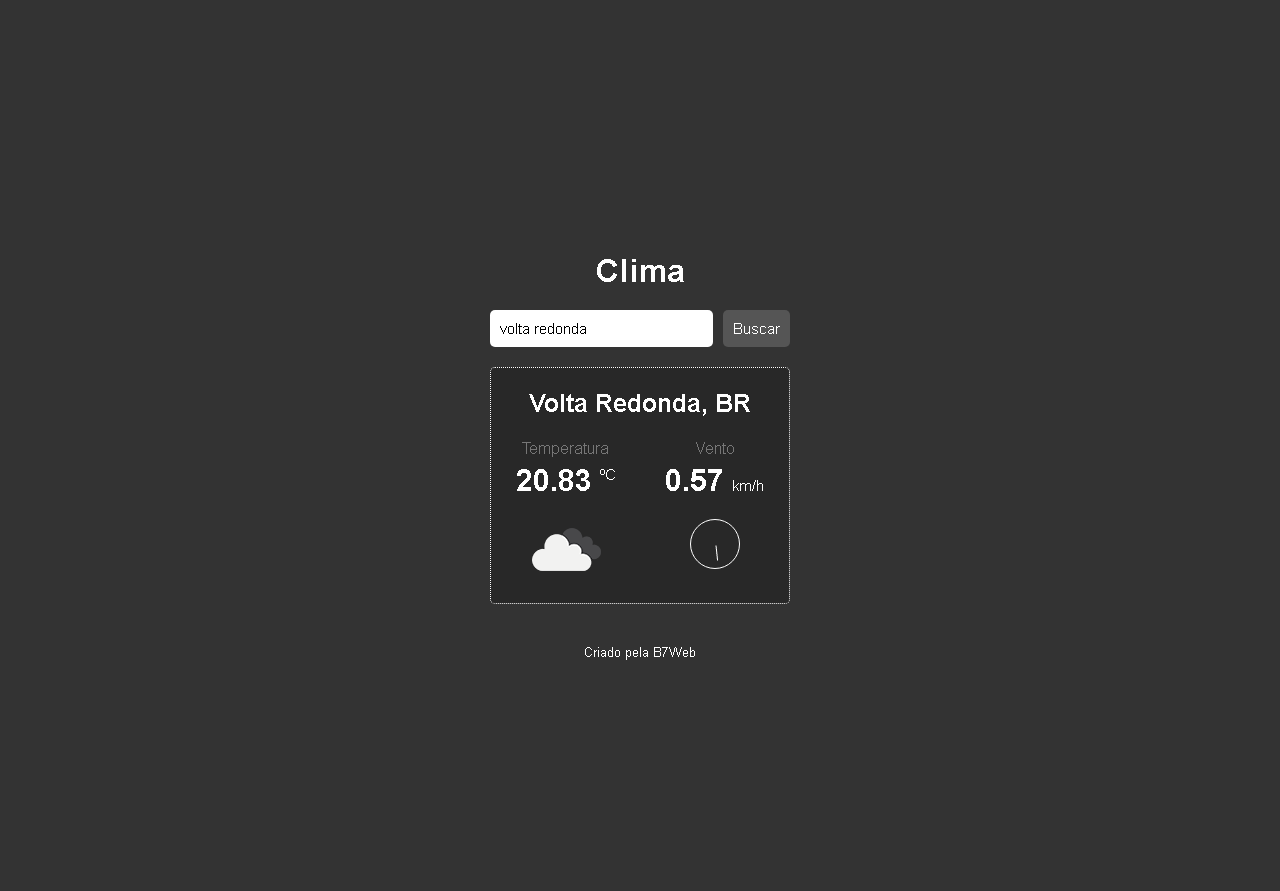
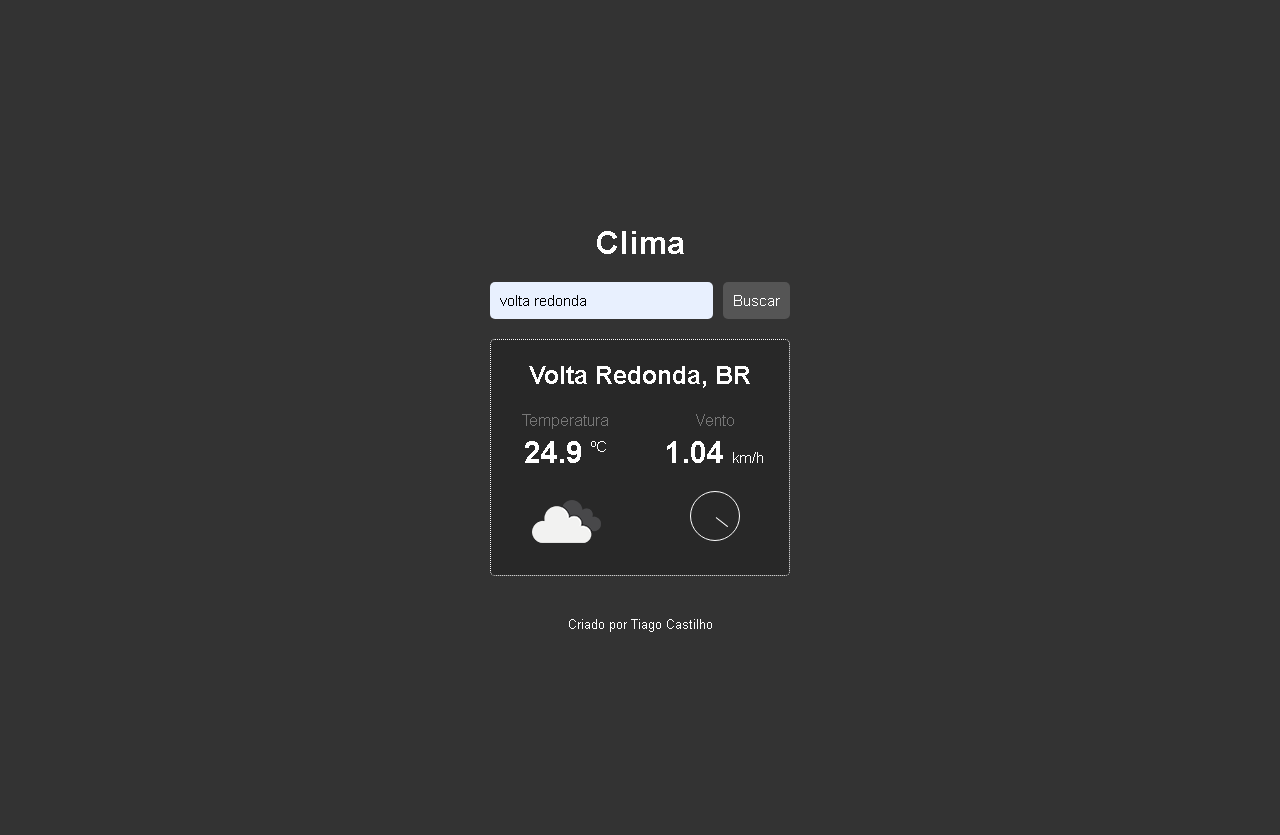
Atualização de arquivos

diff --git a/Projeto 13 - Clima/script.js b/Projeto 13 - Clima/script.js
@@ -1,14 +1,15 @@
-document.querySelector('.busca').addEventListener('submit', async (event) => {
+document.querySelector('.busca').addEventListener('submit', async (event)=> {
     event.preventDefault();
 
     let input = document.querySelector('#searchInput').value;
-    
+
     if(input !== '') {
         clearInfo();
         showWarning('Carregando...');
 
-        let results = await fetch(`https://api.openweathermap.org/data/2.5/weather?q=
-        ${encodeURI(input)}&units=metric&lang=pt_br&appid=d06cdb298fafc83c520d5ab677fc477e`);
+        let url = `https://api.openweathermap.org/data/2.5/weather?q=${encodeURI(input)}&appid=ed89c8f2dddb9d9170e7a20f2479af8c&units=metric&lang=pt_br`;
+    
+        let results = await fetch(url);
         let json = await results.json();
 
         if(json.cod === 200) {
@@ -22,25 +23,24 @@ document.querySelector('.busca').addEventListener('submit', async (event) => {
             });
         } else {
             clearInfo();
-            showWarning('Não encontramos esta localização.');
+            showWarning('Localização não encontrada.');
         }
     } else {
         clearInfo();
     }
+
 });
 
-function showInfo(obj) {
+function showInfo(json) {
     showWarning('');
 
-    document.querySelector('.titulo').innerHTML = `${obj.name}, ${obj.country}`;
-    
-    document.querySelector('.tempInfo').innerHTML = `${obj.temp} <sup>ºC</sup>`;
-    document.querySelector('.ventoInfo').innerHTML = `${obj.windSpeed} <span>km/h</span>`;
+    document.querySelector('.titulo').innerHTML = `${json.name}, ${json.country}`;
+    document.querySelector('.tempInfo').innerHTML = `${json.temp} <sup>ºC</sup>`;
+    document.querySelector('.ventoInfo').innerHTML = `${json.windSpeed} <span>km/h</span>`;
 
-    document.querySelector('.temp img').setAttribute('src', 
-    `http://openweathermap.org/img/wn/${obj.tempIcon}@2x.png`);
-    
-    document.querySelector('.ventoPonto').style.transform = `rotate(${obj.windAngle-90}deg)`;
+    document.querySelector('.temp img').setAttribute('src', `http://openweathermap.org/img/wn/${json.tempIcon}@2x.png`);
+
+    document.querySelector('.ventoPonto').style.transform = `rotate(${json.windAngle-90}deg)`;
 
     document.querySelector('.resultado').style.display = 'block';
 }

diff --git a/Projeto 13 - Clima/index.html b/Projeto 13 - Clima/index.html
@@ -4,7 +4,7 @@
     <meta charset="UTF-8">
     <meta http-equiv="X-UA-Compatible" content="IE=edge">
     <meta name="viewport" content="width=device-width, initial-scale=1.0">
-    <title>Clima - FUNCIONANDO</title>
+    <title>Clima</title>
     <link rel="stylesheet" href="style.css" />
 </head>
 <body>
@@ -36,7 +36,7 @@
 
     <div class="aviso"></div>
 
-    <footer>Criado pela B7Web</footer>
+    <footer>Criado por Tiago Castilho</footer>
 
     <script src="script.js"></script>
 </body>
